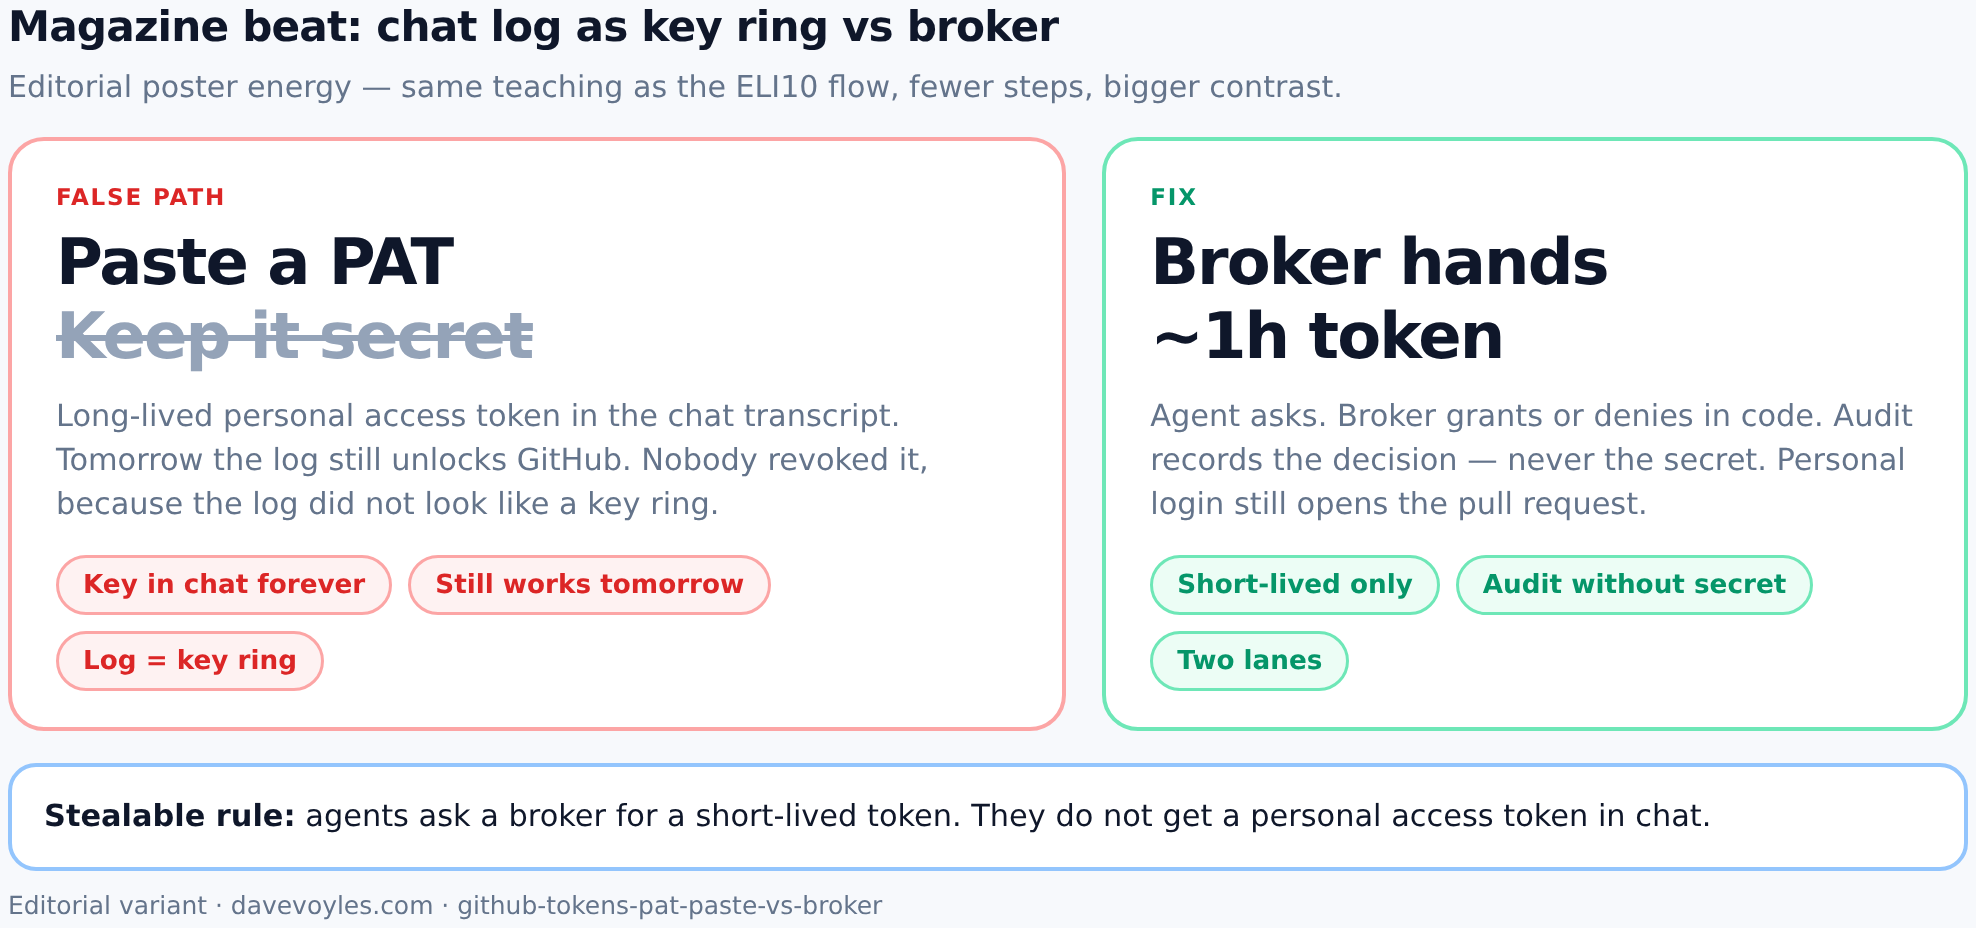
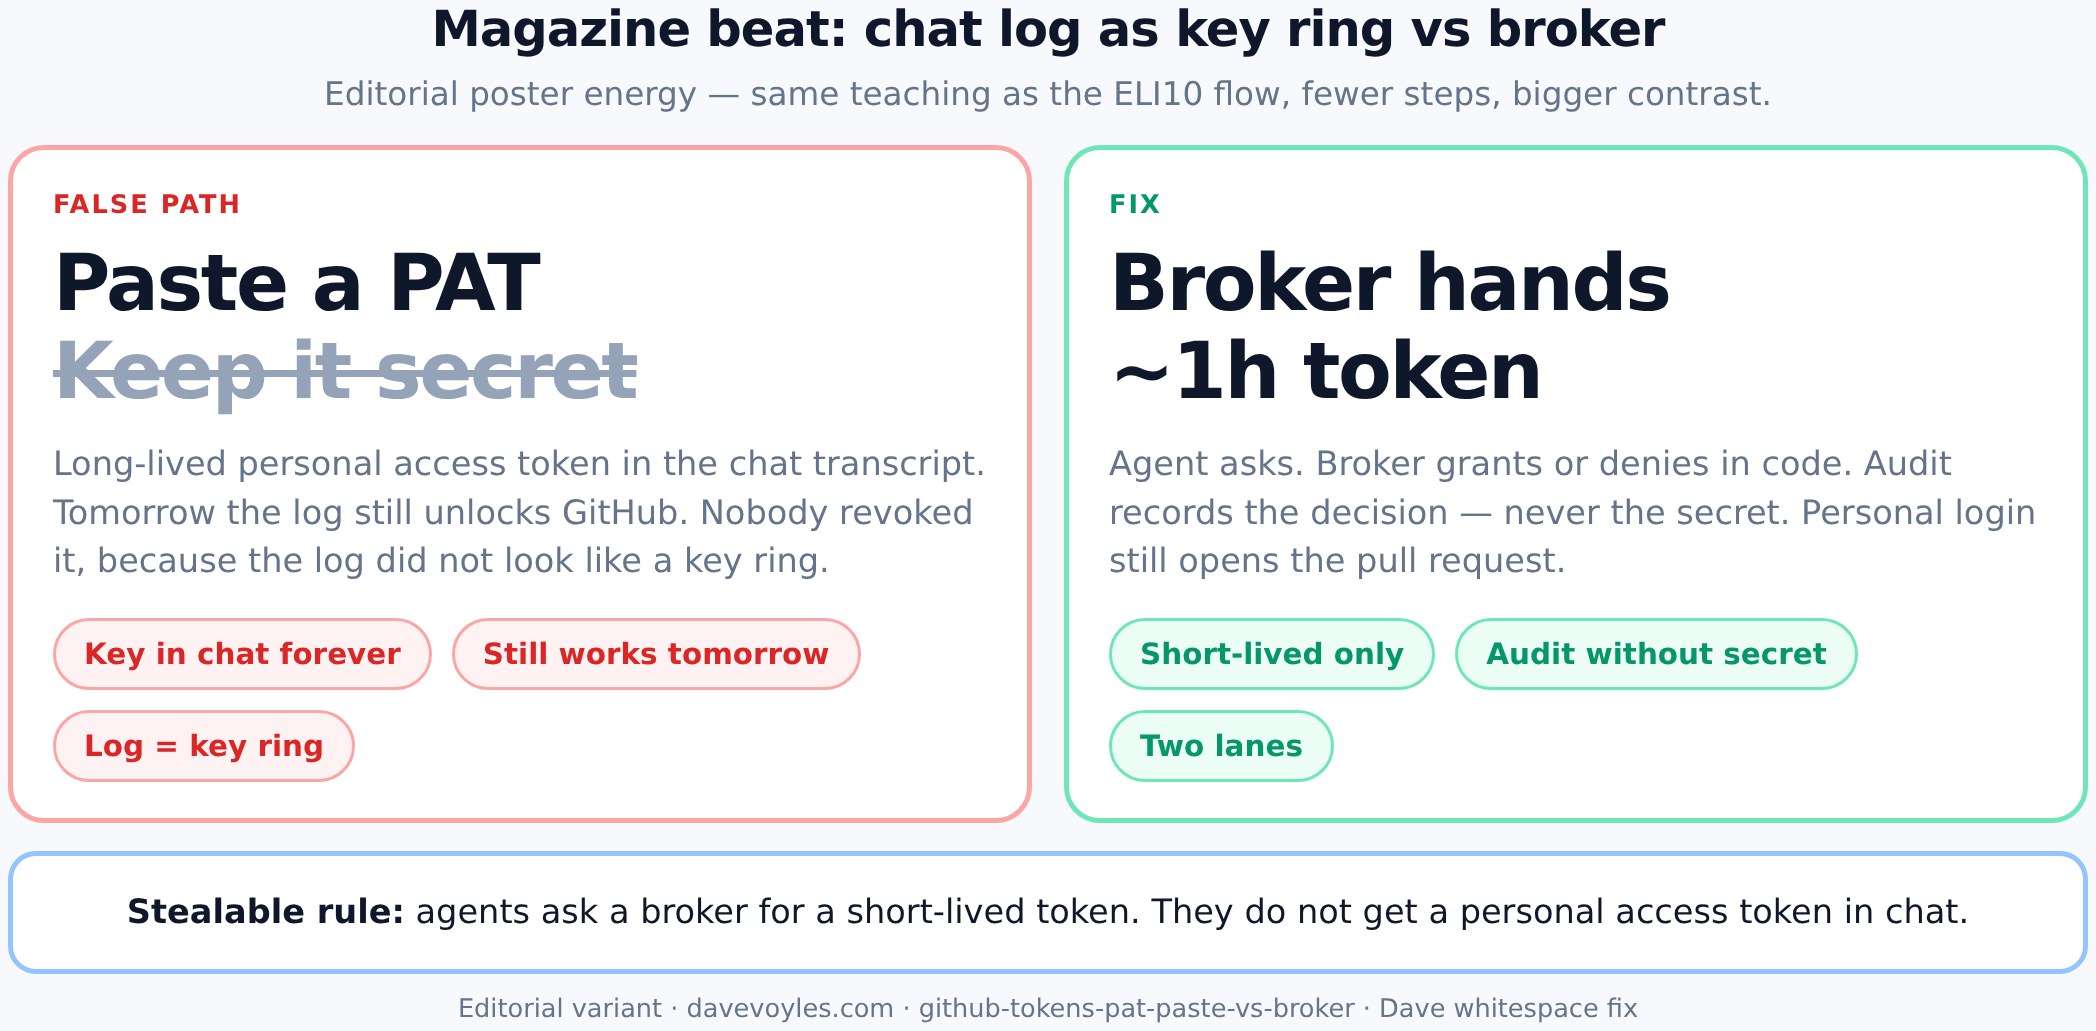
draft: EXT-R2 whitespace fix + cadence diagrams
Dave-locked v2 poster (cropped); add two-lanes + robot-cannot-self-approve (v1 lean).

diff --git a/content/posts/github-tokens-for-agent-fleets.md b/content/posts/github-tokens-for-agent-fleets.md
@@ -64,6 +64,10 @@ Think of two lanes — not as a mood board, as a rule you can steal into a runbo
 | **You** | Your personal login | Until you sign out | Work *you* are doing: open a pull request, poke around, push as yourself |
 | **Robot** | A GitHub App | About one hour | Approve and merge after automatic tests pass |
 
+![Two lanes: personal login opens the pull request; GitHub App approves and merges after automatic tests with a short-lived broker token](/images/posts/github-tokens-two-lanes.png "Create on your name. Later clicks on the App.")
+
+*ELI10: left lane is you — open the pull request on your personal login; right lane is the robot — approve and merge only after automatic tests, with a short-lived token from the broker.*
+
 Look at a normal afternoon. Work is moving. Nothing sits in the middle waiting for someone to *feel* that a key was fine. The broker already said yes or no. Empty waiting is not a stall. It is the rule doing its job, which is the boring kind of good news.
 
 Agents do **not** each own a GitHub App. They call one broker. That broker talks to **one** App. It gets a short-lived token. It throws the token away when done, which is the whole point of making the token die on a schedule instead of dying when someone remembers to revoke it.
@@ -78,6 +82,10 @@ Agents do **not** each own a GitHub App. They call one broker. That broker talks
 Steal that as a card: create on your name, later clicks on the App, and never “fix” a rate limit by handing the robot the first click.
 
 **Example: the robot that cannot approve itself.** You were hitting a limit on your personal login. So you let the GitHub App *open* the pull request, because that felt clever at 11pm. GitHub now thinks the robot wrote the change. At the end of the night a script asks the same robot to approve it. GitHub says no. Same name cannot approve its own work. You find out when you wanted to be done. Keep create on your name. Wait out the limit if you have to. Do not “fix” a limit by handing the robot the first click — that is not a fix, that is a costume change.
+
+![False path: GitHub App opens the pull request then cannot approve itself; fix path: personal login opens, automatic tests run, then the App may click](/images/posts/github-tokens-robot-cannot-self-approve.png "Same name cannot approve its own work. Tests are not optional.")
+
+*ELI10: if the robot opened the pull request, GitHub blocks that same robot from approving it; keep create on your name, let automatic tests run, and only then let the App click — or click yourself if there is no App.*
 
 ## A program hands out the key
 
